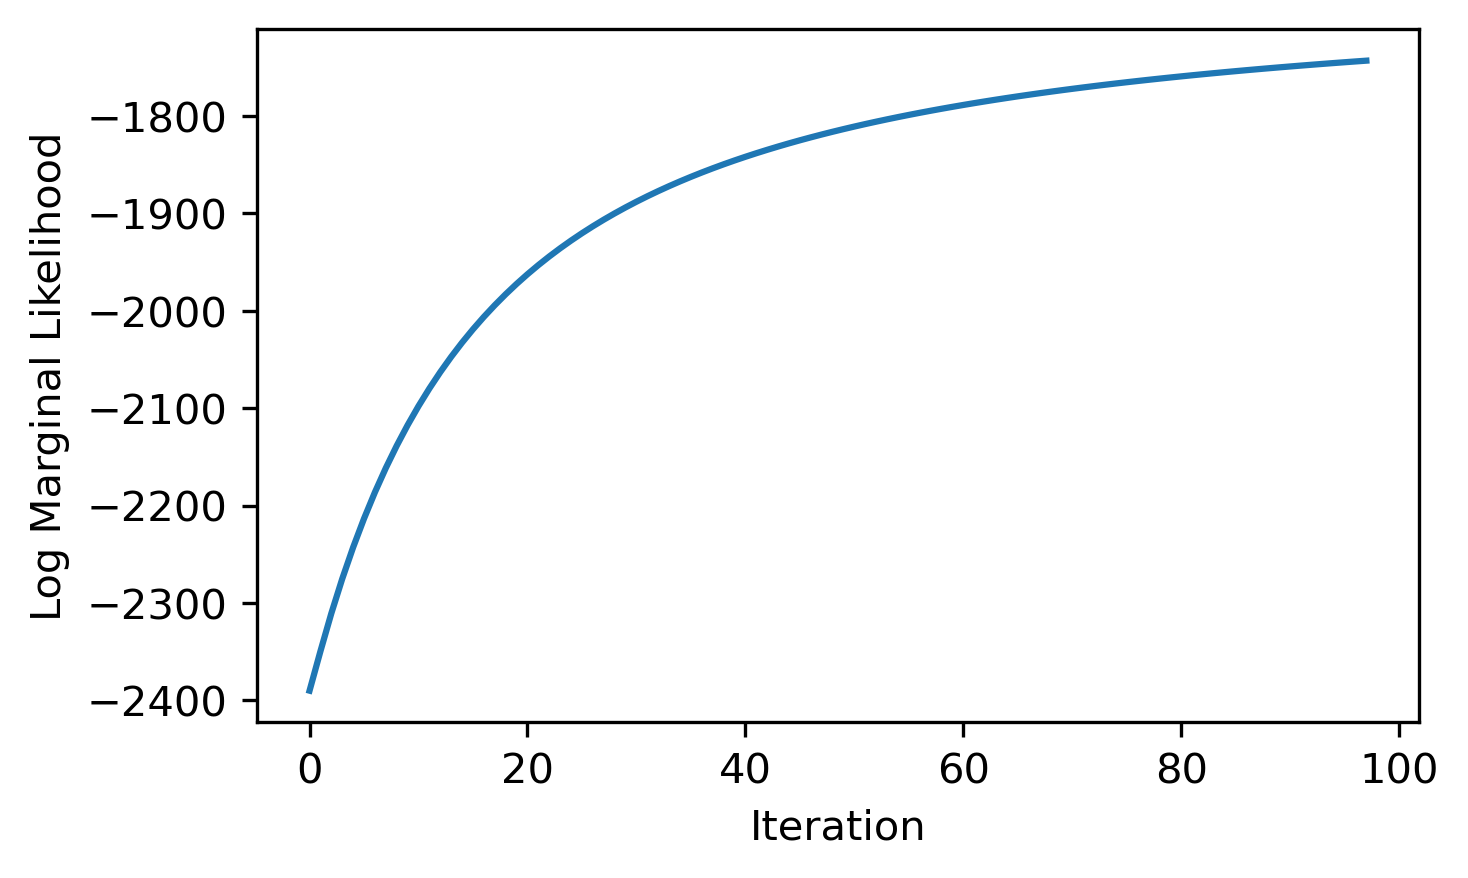
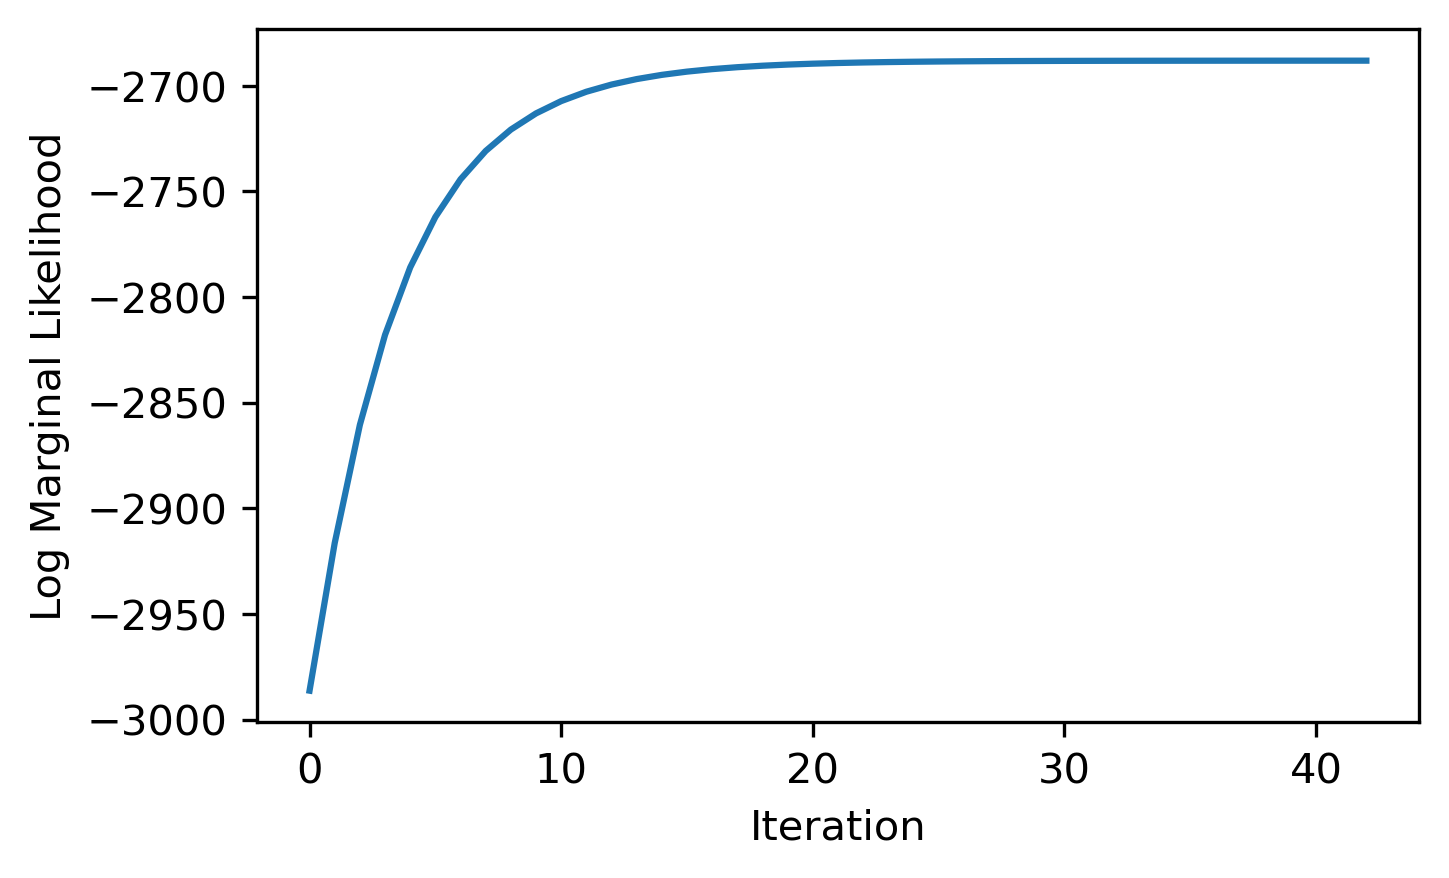
update

diff --git a/main.py b/main.py
@@ -45,32 +45,28 @@ def em_algorithm(y, Z, X, omega_init, sigma_b2_init, sigma_e2_init, max_iter=200
 
 def variational_inference(y, Z, X, omega_init, sigma_b2_init, sigma_e2_init, max_iter=200, tol=1e-6, cv_folds=5):
 
-    y_train, Z_train, X_train, y_test, Z_test, X_test = split_train_test(y, Z, X, test_size=0.1)
-
     # ---------------- EM algorithm ----------------
     vi_params = {'max_iter': max_iter, 'tol': tol, 'omega': omega_init, 'sigma_b2': sigma_b2_init, 'sigma_e2': sigma_e2_init}
     vi = VariationalInference(**vi_params)
 
-    # log_marginal_likelihoods, Theta = vi.fit(y_train, Z_train, X_train)
+    log_marginal_likelihoods, Theta = vi.fit(y, Z, X)
   
-    # print("Log marginal likelihoods:", log_marginal_likelihoods)
-    # print("Estimate of Theta:", Theta)
+    print("Log marginal likelihoods:", log_marginal_likelihoods)
+    print("Estimate of Theta:", Theta)
 
-    # y_train_pred = vi.predict(Z_train, X_train)
-    # print('EM Train MSE:', mean_squared_error(y_train, y_train_pred))
-    # y_test_pred = vi.predict(Z_test, X_test)
-    # print('EM Test MSE:', mean_squared_error(y_test, y_test_pred))
+    y_train_pred = vi.predict(Z, X)
+    print('EM Train MSE:', mean_squared_error(y, y_train_pred))
 
     # Plot marginal likelihood
     vi.plot_marginal_likelihood('outputs/log_marginal_likelihoods_vi.png')
 
     # Cross validation
-    # cv_mses = cross_validate(y, Z, X, VariationalInference, vi_params, n_splits=cv_folds)
+    cv_mses = cross_validate(y, Z, X, VariationalInference, vi_params, n_splits=cv_folds)
 
-    # print('CV Mean MSE:', np.mean(cv_mses))
-    # print('CV MSEs:', cv_mses)
+    print('CV Mean MSE:', np.mean(cv_mses))
+    print('CV MSEs:', cv_mses)
 
-    # np.savetxt('outputs/vi_cv_mses.csv', cv_mses, delimiter=',')
+    np.savetxt('outputs/vi_cv_mses.csv', cv_mses, delimiter=',')
 
     
 
@@ -106,7 +102,6 @@ if __name__ == '__main__':
     omega = np.array([-1, 2, -3, 1, -2, 3, -1, 2, -3, 1])
     # omega = omega / 100.0
     # omega = [-4.34232671e-04, -4.36072309e-02, -5.21779989e-02, -1.10921390e-02, 5.28039854e-02, 2.24489587e-02, 5.11428609e-02, -1.37524736e-02, 2.27649024e-02, -3.88254831e-02]
-    print(omega)
     # y, Z, X = generate_data(n = 2000, c = 10, p = 500, omega=omega, sigma_b2 = 0.25, sigma_e2 = 0.75)
     y, Z, X = load_data(path='data/lmm_y_z_x.txt')
 
@@ -119,8 +114,8 @@ if __name__ == '__main__':
     # cv_boxplot(cv_mses_dirs=['outputs/em_cv_mses.csv', 'outputs/lasso_cv_mses.csv'], save_path='outputs/cv_boxplot.png', labels=['EM', 'LASSO'])    
 
 
-    variational_inference(y, Z, X, omega_init=np.zeros(10), sigma_b2_init=0.5, sigma_e2_init=0.5, max_iter=100, tol=1e-6, cv_folds=10)
+    variational_inference(y, Z, X, omega_init=np.zeros(10), sigma_b2_init=1, sigma_e2_init=0.5, max_iter=100, tol=1e-6, cv_folds=10)
 
-    # cv_boxplot(cv_mses_dirs=['outputs/em_cv_mses.csv', 'outputs/lasso_cv_mses.csv', 'outputs/vi_cv_mses.csv'], save_path='outputs/cv_boxplot_2.png', labels=['EM', 'LASSO', 'VI'])
+    cv_boxplot(cv_mses_dirs=['outputs/em_cv_mses.csv', 'outputs/lasso_cv_mses.csv', 'outputs/vi_cv_mses.csv'], save_path='outputs/cv_boxplot_2.png', labels=['EM', 'LASSO', 'VI'])
 
     

diff --git a/code/variational_inference.py b/code/variational_inference.py
@@ -1,5 +1,6 @@
 from matplotlib import pyplot as plt
 import numpy as np
+from sklearn.linear_model import LinearRegression
 from tqdm import tqdm
 
 
@@ -52,9 +53,13 @@ class VariationalInference:
         _, p = X.shape
         
         # Initialize parameters
-        omega = self.omega_init
+        lm_fit = LinearRegression(fit_intercept=False).fit(Z, y)
+        omega = lm_fit.coef_
+        predictions = lm_fit.predict(Z)
+        residuals = y - predictions
+        sigma_e2 = np.sum(residuals ** 2) / (n - c)
+
         sigma_b2 = self.sigma_b2_init
-        sigma_e2 = self.sigma_e2_init
         Theta = np.hstack((omega, sigma_b2, sigma_e2))
 
         m = np.zeros(p)
@@ -65,18 +70,8 @@ class VariationalInference:
         ZTZZT = np.linalg.inv(Z.T @ Z) @ Z.T
         XTX = X.T @ X
         XXT = X @ X.T
-        XTy = X.T @ y
-        XTZ = X.T @ Z
-        yTy = y.T @ y
-        yTZ = y.T @ Z
-        ZTZ = Z.T @ Z
-        yTX = y.T @ X
-        ZTX = Z.T @ X
-        XTX_tr = np.trace(XTX)
 
-        XTX_diag_inv = np.reciprocal(np.diag(XTX))
-
-        XXT_eigen_values, XXT_eigen_vectors = np.linalg.eig(XXT)
+        XXT_eigen_values, _ = np.linalg.eig(XXT)
         
         for _ in tqdm(range(self.max_iter)): 
             
@@ -85,22 +80,16 @@ class VariationalInference:
 
             # E-step
             for j in range(p):
-                s2[j] = (XTX_tr / sigma_e2 + 1 / sigma_b2) ** -1
-                A = (y - Z @ omega).T @ X
-                m[j] = s2[j] / sigma_e2 * A[j]
+                s2[j] = (X[:, j].T @ X[:, j] / sigma_e2 + 1 / sigma_b2) ** -1
+                m[j] = s2[j] / sigma_e2 * (y - Z @ omega).T @ X[:, j]
 
 
-            # Compute marginal likelihood
-            Diag = XXT_eigen_values / sigma_e2 + 1 / sigma_b2
-            log_marginal_likelihood = -np.sum(np.log(Diag)) / 2 - n / 2 * np.log(sigma_b2) - n / 2 * np.log(sigma_e2) - n / 2 * np.log(2 * np.pi) - 1 / 2 * np.sum((y - Z @ omega) ** 2 / Diag)
-            print(log_marginal_likelihood)
-
-            log_marginal_likelihoods.append(log_marginal_likelihood)
+            
             
             # M-step
             omega_new = ZTZZT @ (y - X @ m)
-            sigma_e2_new = ((y - Z @ omega_new - X @ m).T @ (y - Z @ omega - X @ m) + np.trace(X @ np.diag(s2) @ X.T)) / n
             sigma_b2_new = (m.T @ m + np.sum(s2)) / p  
+            sigma_e2_new = ((y - Z @ omega_new - X @ m).T @ (y - Z @ omega - X @ m) + np.trace(X @ np.diag(s2) @ X.T)) / n
 
             # break
             Theta_new = np.hstack((omega_new, sigma_b2_new, sigma_e2_new))
@@ -114,7 +103,12 @@ class VariationalInference:
             sigma_e2 = sigma_e2_new
             sigma_b2 = sigma_b2_new
             Theta = Theta_new
-            print(Theta_new)
+
+            # Compute marginal likelihood
+            Diag = XXT_eigen_values / sigma_e2 + 1 / sigma_b2
+            log_marginal_likelihood = -np.sum(np.log(Diag)) / 2 - n / 2 * np.log(sigma_b2) - n / 2 * np.log(sigma_e2) - n / 2 * np.log(2 * np.pi) - 1 / 2 * np.sum((y - Z @ omega) ** 2 / Diag)
+
+            log_marginal_likelihoods.append(log_marginal_likelihood)
 
         self.n = n
         self.p = p

diff --git a/code/em_algorithm.py b/code/em_algorithm.py
@@ -56,9 +56,12 @@ class EMAlgorithm:
         sigma_e2 = np.sum(residuals ** 2) / (n - c)
 
         sigma_b2 = self.sigma_b2_init
+
+        Theta = np.hstack((omega, sigma_b2, sigma_e2))
         
         log_marginal_likelihoods = []
 
+        ZTZZT = np.linalg.inv(Z.T @ Z) @ Z.T
         XXT = X @ X.T
         XXT_eigen_values, XXT_eigen_vectors = np.linalg.eig(XXT)
         
@@ -77,18 +80,20 @@ class EMAlgorithm:
             Xmu = X @ mu
 
             # Compute marginal likelihood
-            log_marginal_likelihood = -np.sum(np.log(Diag)) / 2 - n / 2 * np.log(sigma_b2) - n / 2 * np.log(sigma_e2) - n / 2 * np.log(2 * np.pi) - 1 / 2 * np.sum((y - Z @ omega) ** 2 / Diag)
-
-            # Check for convergence
-            if len(log_marginal_likelihoods) > 0 and np.abs(log_marginal_likelihood - log_marginal_likelihoods[-1]) < self.tol:
-                break
+            log_marginal_likelihood = -np.sum(np.log(Diag)) / 2 - n / 2 * np.log(sigma_b2) - n / 2 * np.log(sigma_e2) - n / 2 * np.log(2 * np.pi) - 1 / 2 * np.sum((y - Z @ omega) ** 2 / Diag) 
 
             log_marginal_likelihoods.append(log_marginal_likelihood)
             
             # M-step
-            omega = np.linalg.solve(Z.T @ Z, Z.T) @ (y - X @ mu)
-            sigma_e2 = ((y - Z @ omega - Xmu).T @ (y - Z @ omega - Xmu) + SigmaXTX_tr) / n
-            sigma_b2 = (muTmu + Sigma_tr) / p   
+            omega_new = ZTZZT @ (y - X @ mu)
+            sigma_e2_new = ((y - Z @ omega_new - Xmu).T @ (y - Z @ omega_new - Xmu) + SigmaXTX_tr) / n
+            sigma_b2_new = (muTmu + Sigma_tr) / p   
+
+            Theta_new = np.hstack((omega_new, sigma_b2_new, sigma_e2_new))
+
+            # Check for convergence
+            if np.linalg.norm(Theta_new - Theta) < self.tol:
+                break
 
         
 
